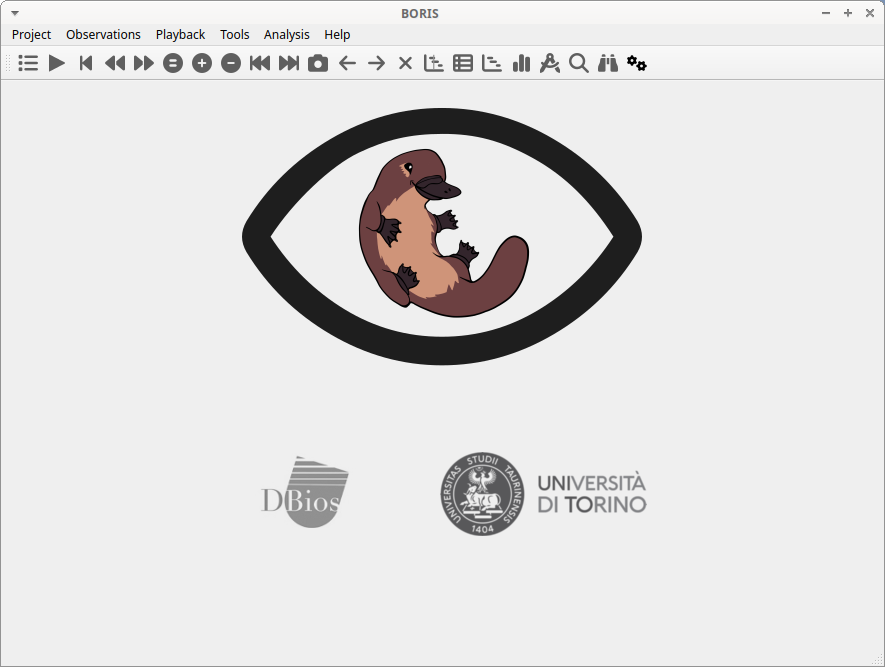
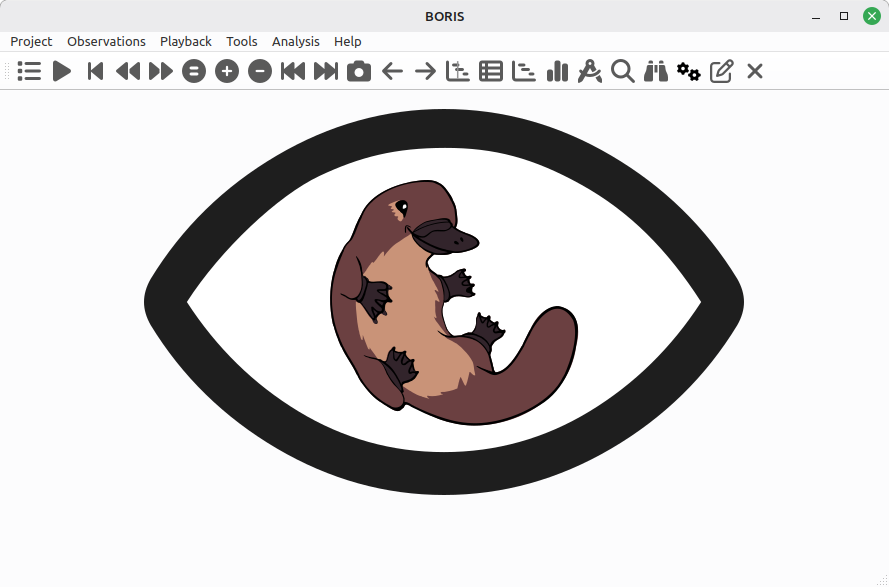
some changes

diff --git a/src/start.md b/src/start.md
@@ -27,5 +27,10 @@ The BORIS main window will appear. At this stage, all toolbar commands are disab
 
 
 
-To launch BORIS from source code, refer to the [Run BORIS from source code](https://www.boris.unito.it/run_from_source_code) section.
+<figure markdown>
+  ![Image title](images/main_window_no-project_dark-theme.png)
+  <figcaption>The BORIS main window - Dark theme</figcaption>
+</figure>
 
+
+To launch BORIS from source code, refer to the [Run BORIS from source code](https://www.boris.unito.it/run_from_source_code) section.

diff --git a/src/index.md b/src/index.md
@@ -16,7 +16,7 @@ glightbox: false
 # User Guide for **BORIS**, the **B**ehavioral **O**bservation **R**esearch **I**nteractive **S**oftware
 
 BORIS is a user-friendly application designed for event logging during video/audio coding and live observations.
-It is free and open source, and it runs on GNU/Linux and Windows.
+It is free and open source, and it runs on GNU/Linux, Microsoft-Windows and macOS with some limitations.
 
 The official BORIS website is [**https://www.boris.unito.it**](https://www.boris.unito.it).
 

diff --git a/src/playback_menu.md b/src/playback_menu.md
@@ -40,6 +40,11 @@ The time selection widget will pop-up:
 
 ![Change time offset of players](images/change_time_offset_players.png)
 
+## Deinterlace
+
+:    Check this option if your video is interlaced
+
+
 
 
 ## Zoom level
